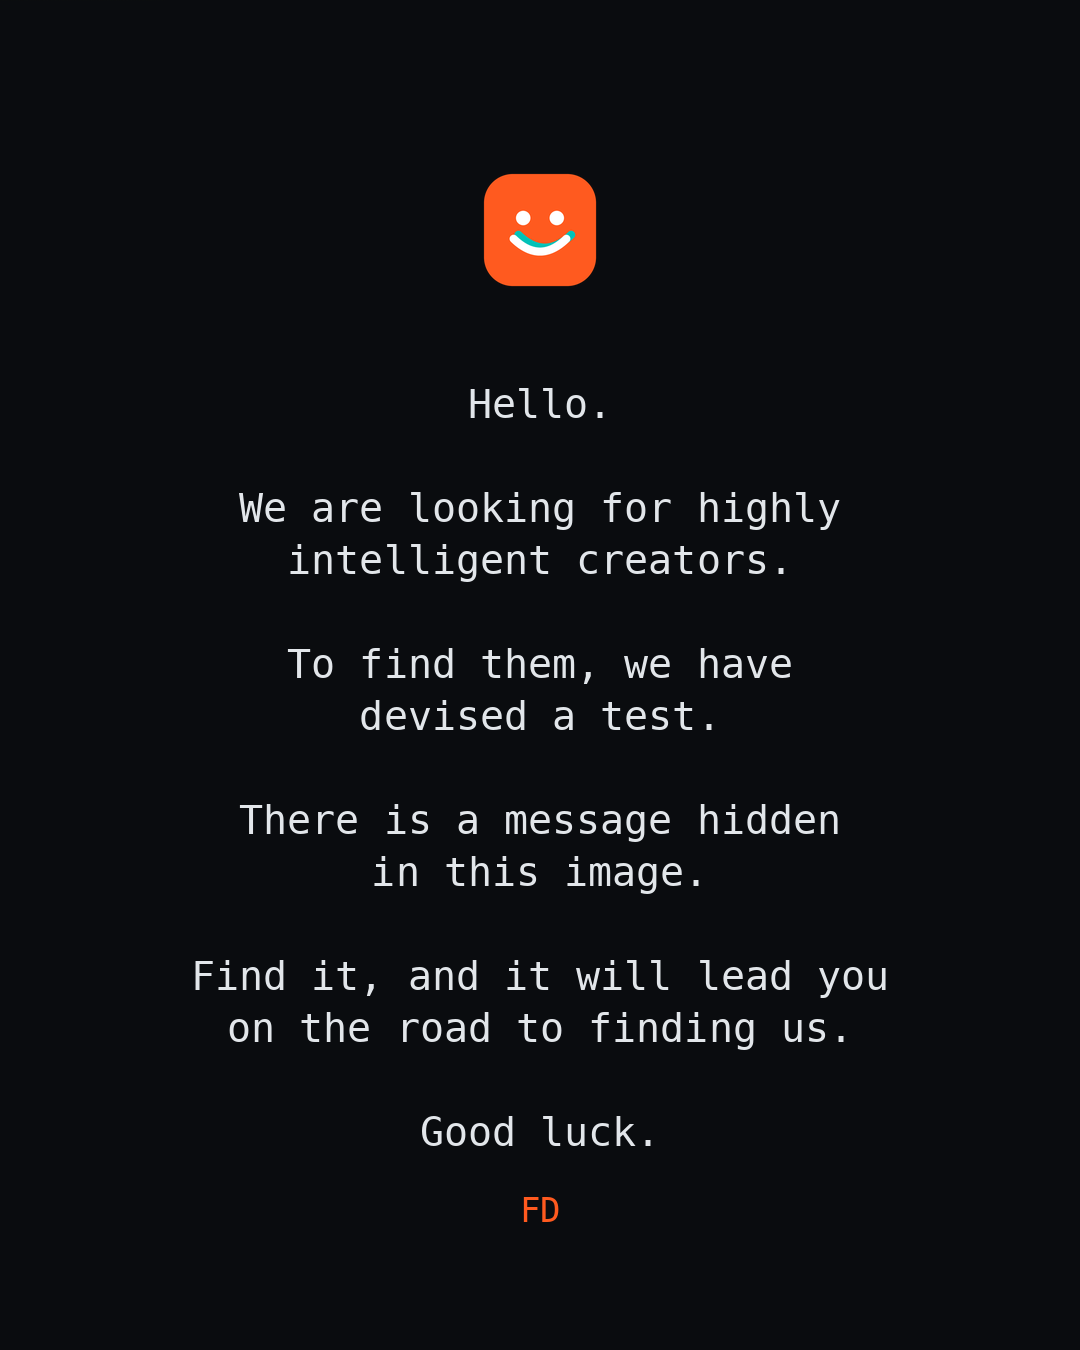
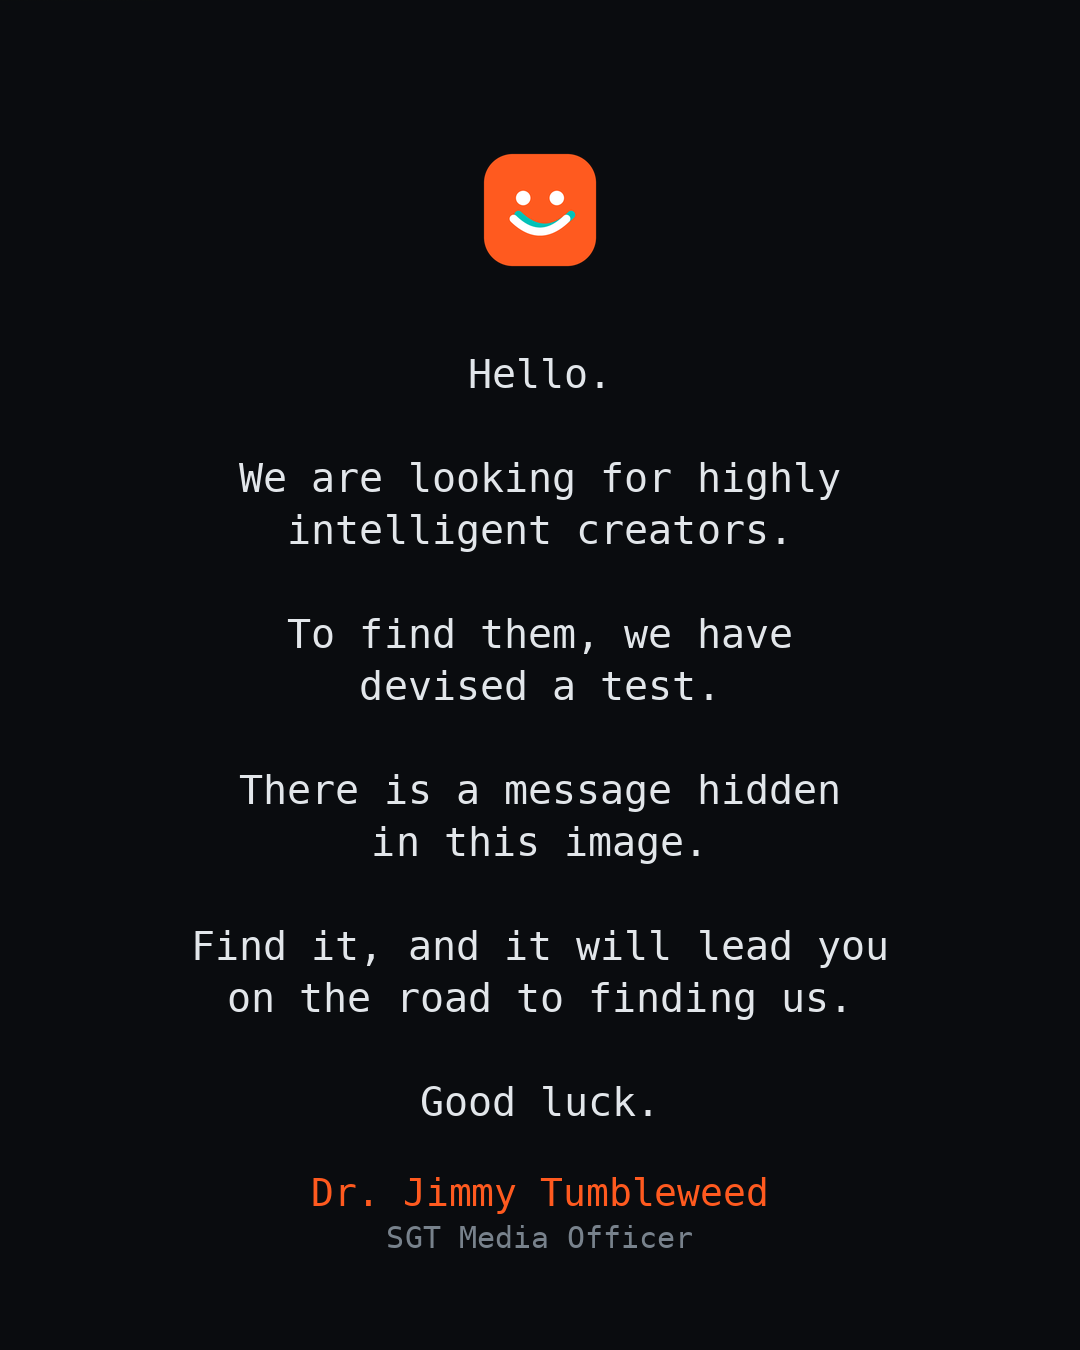
Sign recruitment puzzle as Dr. Jimmy Tumbleweed
Claude-Session: https://claude.ai/code/session_01QRRfKryov4wHsu2oa8UXcz

diff --git a/recruit-7a3f/index.html b/recruit-7a3f/index.html
@@ -27,7 +27,7 @@ img{display:block;width:100%;max-width:360px;margin:28px 0;border:1px solid #1E2
 <p>Here is your orientation material.</p>
 <a href="orientation.png" download><img src="orientation.png" alt="New creator orientation"></a>
 <p class="mut">Not everything is only what it appears to be.<br>Look at what it is made of.</p>
-<p class="sig">FD</p>
+<p class="sig">Dr. Jimmy Tumbleweed<br><span class="mut">SGT Media Officer</span></p>
 </main>
 <!-- a picture can hold more than one thing. so can a file. -->
 </body>
